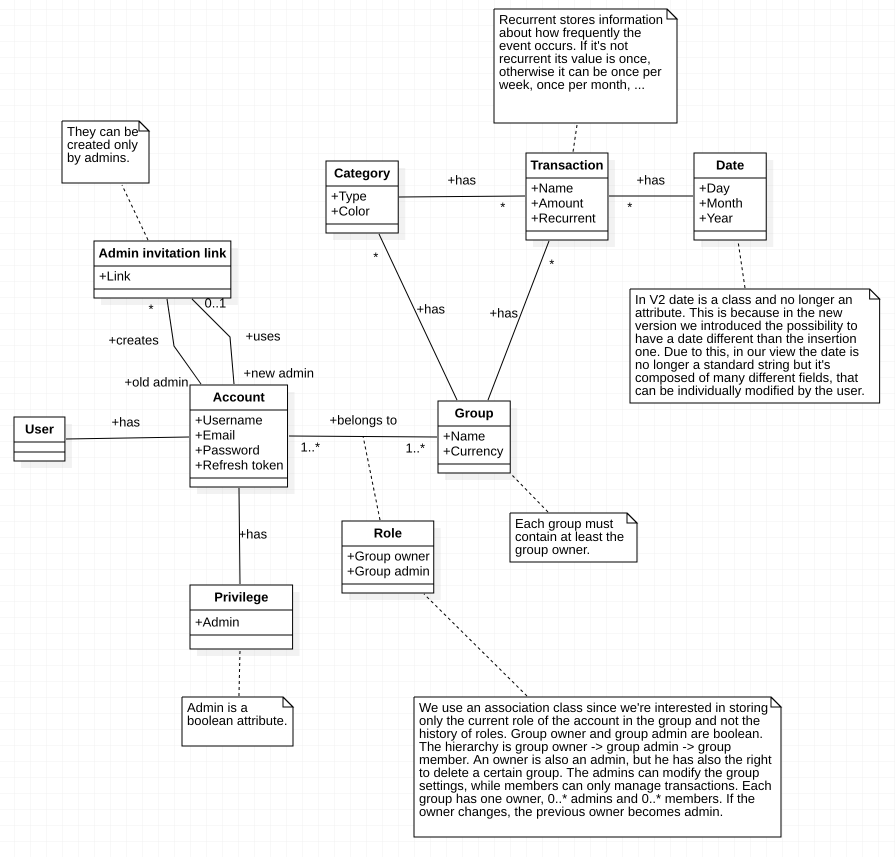
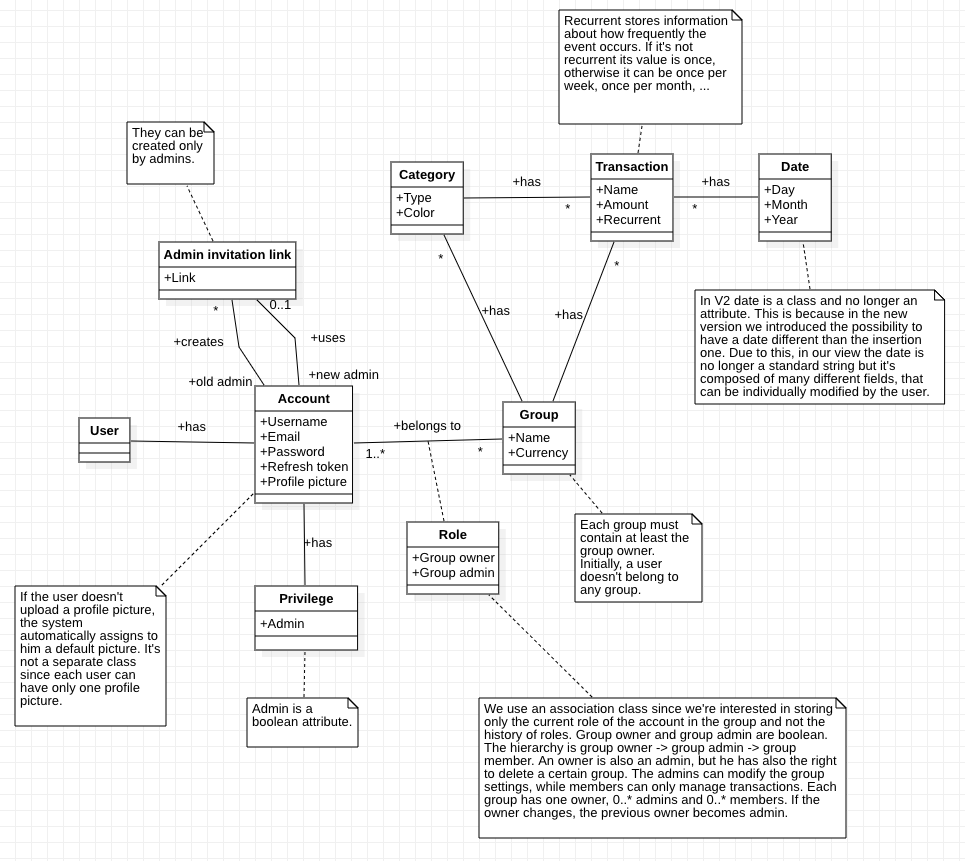
Fixed GlossaryV2 Fixed RequirementsV2

diff --git a/RequirementsDocumentV2.md b/RequirementsDocumentV2.md
@@ -331,8 +331,8 @@ Splitting the household expenses between 4 people is not an easy task for Fabian
 |  2     | User: Click on register button. |
 |  3     | User: Provide username, email, password. |
 |  4     | System: Retrieve username, email, password. Check if the email provided has a valid format and if the password respects the security requirements. |
-|  5     | System: Check that the provided email isn't associated with any account yet. The email hasn't been used yet. |
-|  6     | System: Create a new user and store his information (encrypt in some way the password). |
+|  5     | System: Check that the provided email and username isn't associated with any account yet. The email and username hasn't been used yet. |
+|  6     | System: Create a new user and store his information (encrypt in some way the password). Assign to him the default profile picture. |
 |  7	 | System: Show a registration confirmation message. |
 
 ##### Scenario 3.2 
@@ -346,7 +346,7 @@ Splitting the household expenses between 4 people is not an easy task for Fabian
 |  2     | User: Click on register button. |
 |  3     | User: Provide username, email, password. |
 |  4     | System: Retrieve username, email, password. Check if the email provided has a valid format and if the password respects the security requirements. |
-|  5     | System: Check that the provided email isn't associated with any account yet. The email has already been used. |
+|  5     | System: Check that the provided email and username aren't associated with any account yet. The email or username has already been used. |
 |  6	 | System: Show an error message. |
 
 ##### Scenario 3.3 
@@ -361,7 +361,7 @@ Splitting the household expenses between 4 people is not an easy task for Fabian
 |  3     | Admin: Provide username, email, password. |
 |  4     | System: Retrieve username, email, password. Check if the email provided has a valid format and if the password respects the security requirements. |
 |  5     | System: Check that the provided email isn't associated with any account yet. The email hasn't been used yet. |
-|  6     | System: Create a new user and store his information (encrypt in some way the password). Grant to the user admin privileges. |
+|  6     | System: Create a new user and store his information (encrypt in some way the password). Grant to the user admin privileges. Assign to him the default profile picture. |
 |  7	 | System: Show a registration confirmation message. |
 
 ##### Scenario 3.4 
@@ -612,7 +612,7 @@ For categories, it's not necessary to implement checks on input since the name i
 |  2     | System: Check if the user is logged in and if he belongs to the group. |
 |  3     | System: Retrieve all the categories of the group and show them. Show advertisements. |
 |  4	 | User: Click on the desired category. |
-|  5     | System: Retrieve category details and show them. |
+|  5     | System: Retrieve category details and show them. Show all the transactions related to that category. |
 |  6	 | User: Click on edit button. |
 |  7     | System: Allow the editing of the fields. |
 |  8     | User: Edit category name and/or color. |
@@ -632,7 +632,7 @@ For categories, it's not necessary to implement checks on input since the name i
 |  2     | System: Check if the user is logged in and if he belongs to the group. |
 |  3     | System: Retrieve all the categories of the group and show them. Show advertisements. |
 |  4	 | User: Click on the desired category. |
-|  5     | System: Retrieve category details and show them. |
+|  5     | System: Retrieve category details and show them. Show all the transactions related to that category. |
 |  6	 | User: Click on delete button. |
 |  7     | System: Ask to the user what he wants to do with the transactions related to that category. |
 |  6	 | User: Click on "delete transactions" button. |
@@ -649,7 +649,7 @@ For categories, it's not necessary to implement checks on input since the name i
 |  2     | System: Check if the user is logged in and if he belongs to the group. |
 |  3     | System: Retrieve all the categories of the group and show them. Show advertisements. |
 |  4	 | User: Click on the desired category. |
-|  5     | System: Retrieve category details and show them. |
+|  5     | System: Retrieve category details and show them. Show all the transactions related to that category. |
 |  6	 | User: Click on delete button. |
 |  7     | System: Ask to the user what he wants to do with the transactions related to that category. |
 |  6	 | User: Select the new category for the transactions. |
@@ -727,9 +727,9 @@ The scenario 5.9 can be replicated for the edit case. We won't explicitly report
 |  2     | System: Check if the user is logged in and if he has admin privileges. |
 |  3     | System: Retrieve the list of all users and show it. Show advertisements. |
 |  4     | Admin: Click on edit button for a given user. |  
-|  5     | System: Retrieve user information and show them in editing mode. |
+|  5     | System: Retrieve user information and show them in editing mode. Don't show the password. |
 |  6     | Admin: Update some of the fields. Click on save button. |
-|  7     | System: Retrieve updated fields. Check if input format satisfies the requirements (as seen in register scenario). |
+|  7     | System: Retrieve updated fields. Check if input format satisfies the requirements (as seen in register scenario). Check if email and username are unique. |
 |  8     | System: Update user information. Show a confirmation message. |
 
 ##### Scenario 6.4
@@ -759,10 +759,10 @@ The scenario 5.9 can be replicated for the edit case. We won't explicitly report
 |  4     | Admin: Click on insert button. |  
 |  5     | System: Show insertion mode. |
 |  6     | Admin: Provide username, email, password. Click on save button. |
-|  7     | System: Retrieve username, email, password. Check if input format satisfies the requirements (as seen in register scenario). |
+|  7     | System: Retrieve username, email, password. Check if input format satisfies the requirements (as seen in register scenario). Check if email and password are unique. |
 |  8     | System: Insert user. Show a confirmation message. |
 
-Since the exceptions that can occur during insertion or editing are the same ones seen for registration (email already used, wrong input format, ...) we won't report them again for the sake of brevity.
+Since the exceptions that can occur during insertion or editing are the same ones seen for registration (email or username already used, wrong input format, ...) we won't report them again for the sake of brevity.
 
 ##### Scenario 6.6
 
@@ -802,7 +802,7 @@ Since the exceptions that can occur during insertion or editing are the same one
 | ------------- |:-------------:| 
 |  Precondition     | User logged in |
 |  Post condition     | User information shown/updated/deleted |
-|  Nominal Scenario     | Scenario 7.1, 7.5, 7.6 |
+|  Nominal Scenario     | Scenario 7.1, 7.5, 7.6, 7.7 |
 |  Variants     | None |
 |  Exceptions     | Scenario 7.2, 7.3, 7.4 |
 
@@ -888,6 +888,24 @@ Since the exceptions that can occur during insertion or editing are the same one
 |  6     | User: Click on "delete account" button. |
 |  7     | System: Delete the user. |
 |  8     | System: Show a confirmation message. |
+
+##### Scenario 7.7
+
+| Scenario 7.7 | Upload a profile picture |
+| ------------- |:-------------:| 
+|  Precondition     | The user is logged in |
+|  Post condition     | User profile picture inserted/updated |
+| Step#        | Description  |
+|  1     | User: Click on user management tab. |  
+|  2     | System: Check if the user is logged in. |
+|  3     | System: Retrieve the details about the user that's performing the request. |
+|  4     | System: Check if the username provided matches with the user's one. They match. |
+|  5     | System: Show user information. Show advertisements. |
+|  6     | User: Click on edit button. |
+|  7     | System: Show user information in editing mode. |
+|  8     | User: Click on the button to upload a profile picture. Select the picture. |
+|  9     | System: Store the updated profile picture. |
+|  10    | System: Show the updated information. |
 
 ### Use case 8, Show advertisements (UC8)
 
@@ -1145,7 +1163,7 @@ The group hierarchy is group owner -> group admin -> group member. There can be 
 | ------------- |:-------------:| 
 |  Precondition     | The user is logged in, the user belongs to the group  |
 |  Post condition     | Statistics shown |
-|  Nominal Scenario     | Scenario 11.1 |
+|  Nominal Scenario     | Scenario 11.1, 11.3 |
 |  Variants     | Scenario 11.2 |
 |  Exceptions     | None |
 
@@ -1161,7 +1179,7 @@ The group hierarchy is group owner -> group admin -> group member. There can be 
 |  3     | User: Select the desired group. |  
 |  4     | System: Check if the user belongs to the group. |
 |  5     | User: Open the statistics page. Show advertisements. |
-|  6     | System: Compute statistics regarding the group. Show the most expensive categories and months. |
+|  6     | System: Compute statistics regarding the group. Show the most expensive categories, users and months. |
 
 ##### Scenario 11.2
 
@@ -1177,6 +1195,22 @@ The group hierarchy is group owner -> group admin -> group member. There can be 
 |  5     | User: Open the statistics page. Show advertisements. |
 |  6     | System: Compute statistics regarding the group. There are no transactions. |
 |  7     | System: Show a message to tell the user to add transactions. |
+
+##### Scenario 11.3
+
+| Scenario 11.3 | Filter statistics |
+| ------------- |:-------------:| 
+|  Precondition     | The user is logged in, the user belongs to the group |
+|  Post condition     | Statistics shown |
+| Step#        | Description  |
+|  1     | User: Open the homepage of EZWallet. |  
+|  2     | System: Check if the user is logged in. |
+|  3     | User: Select the desired group. |  
+|  4     | System: Check if the user belongs to the group. |
+|  5     | User: Open the statistics page. Show advertisements. |
+|  6     | System: Compute statistics regarding the group. Show the most expensive categories, users and months. |
+|  7     | User: Edit visualization filters (time period considered). |  
+|  8     | System: Recompute the statistics with the updated filters and show them. Show advertisements. |
 
 # Glossary
 
